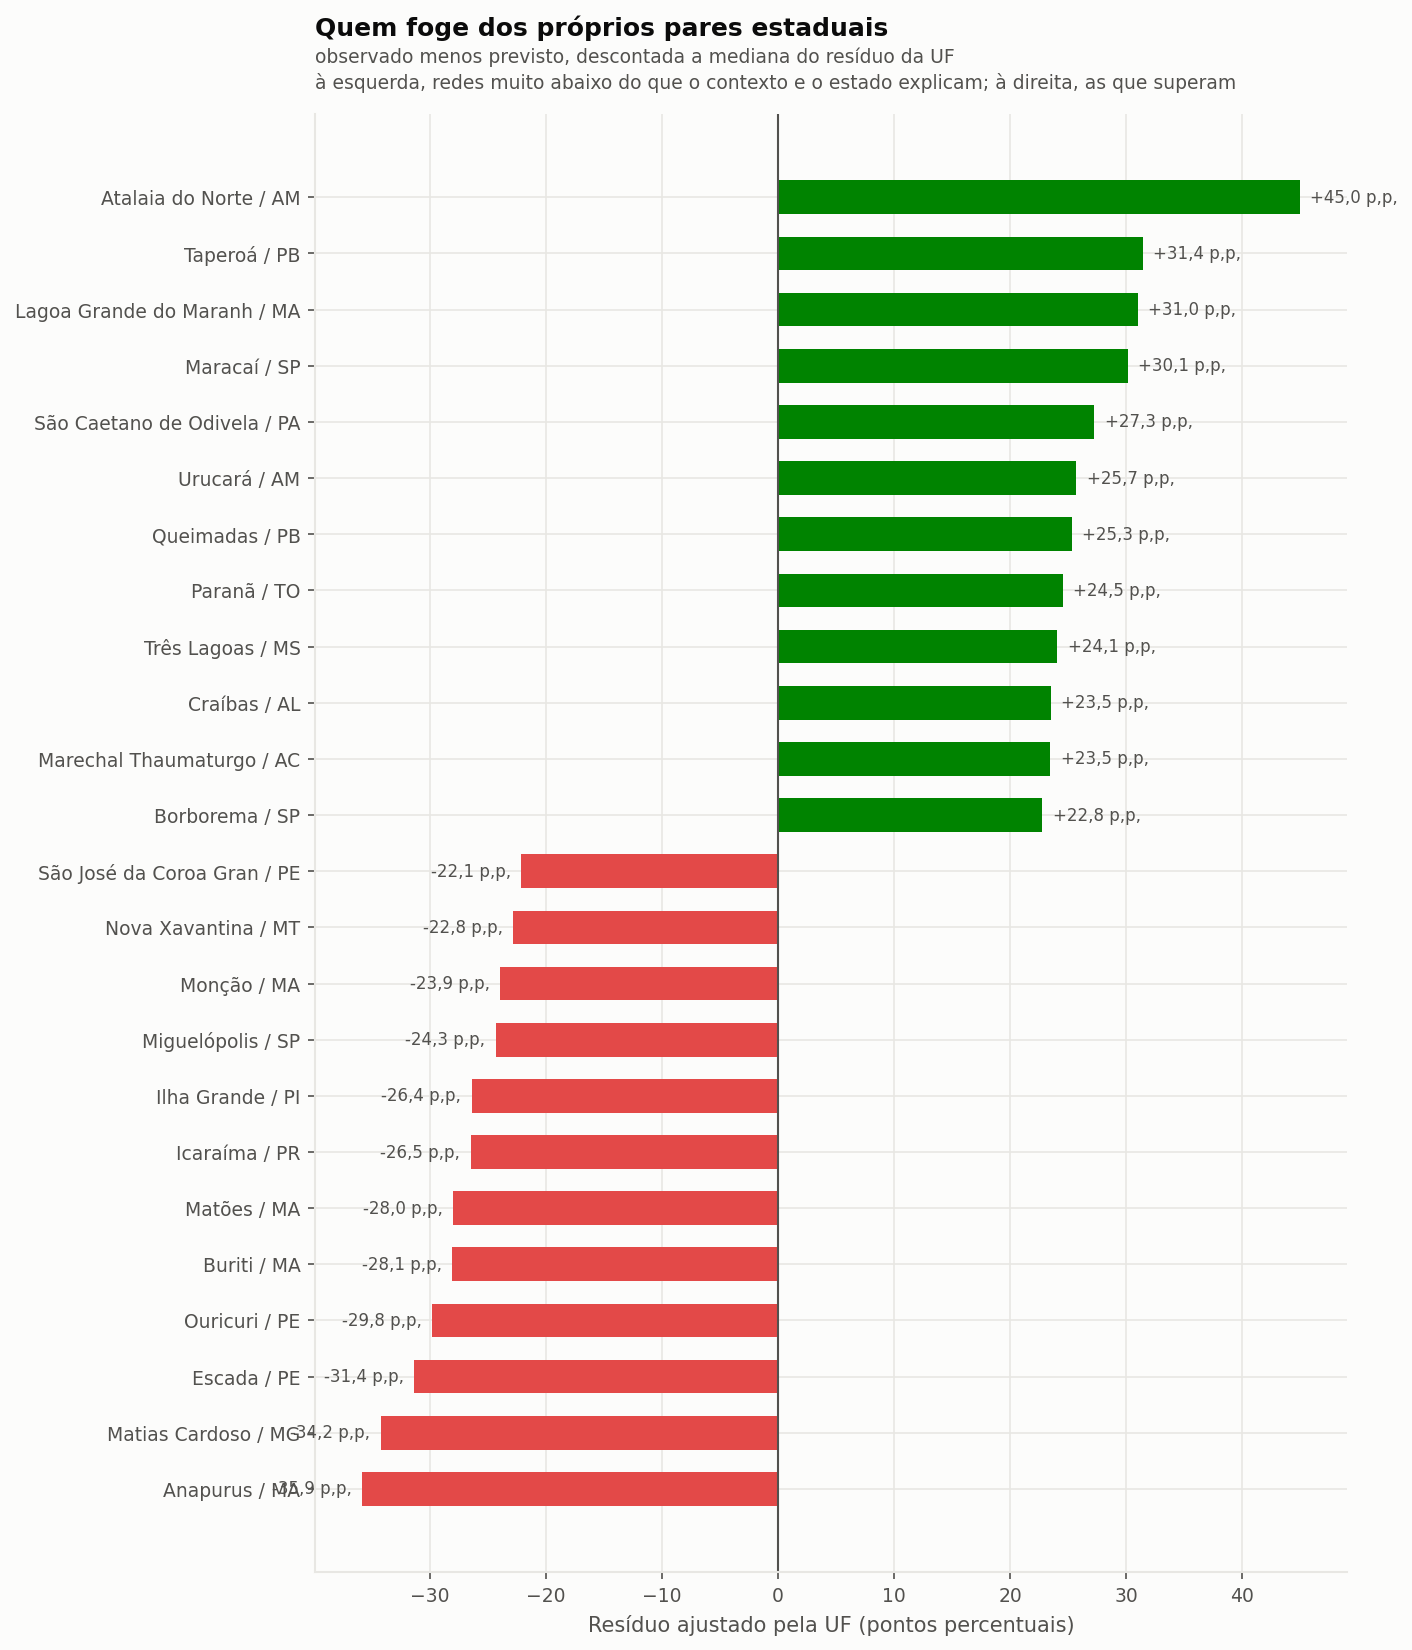
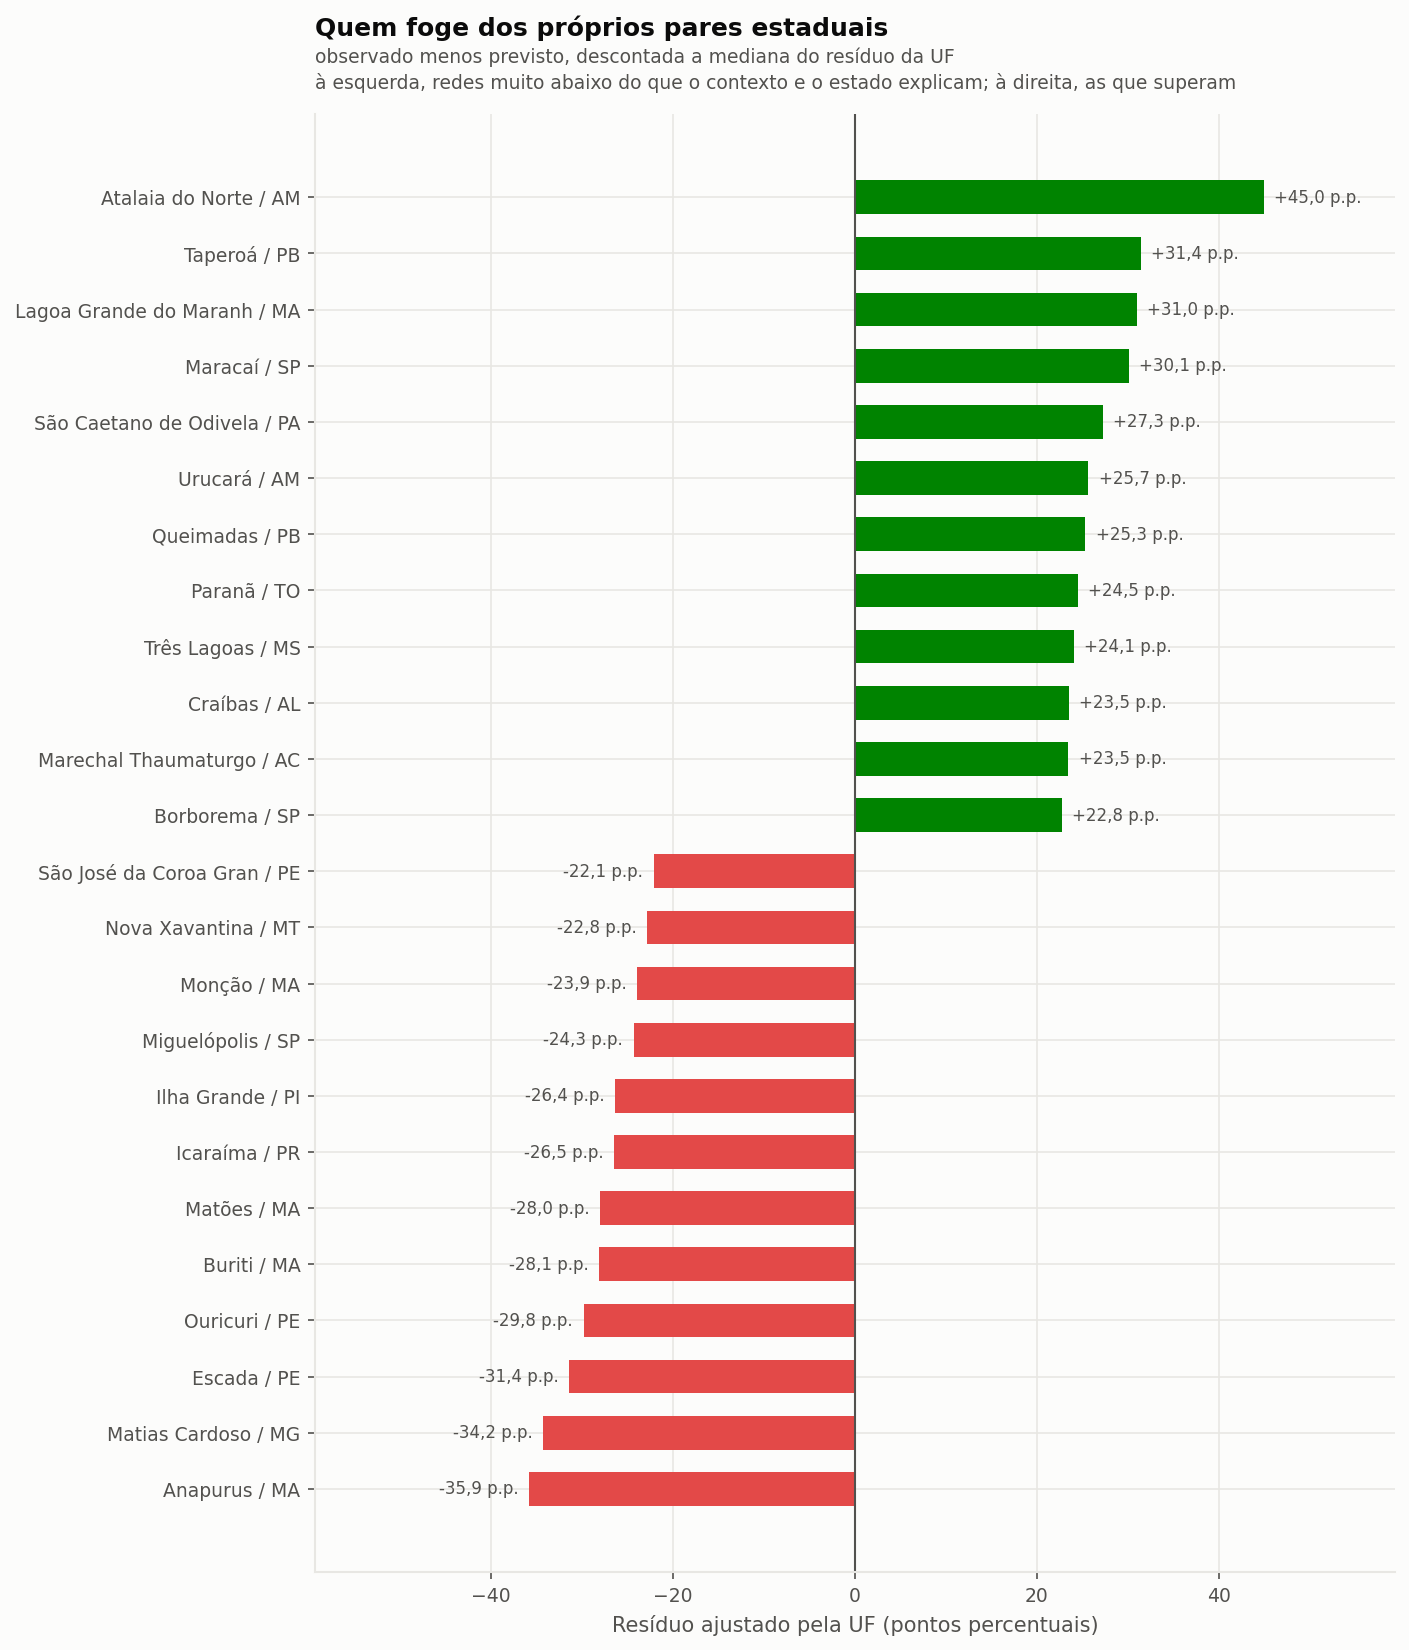
fix: helper de formatação numérica — o bug do "p,p," aparecia pela quarta vez
A forma ingênua de formatar no padrão brasileiro — `f"{x:.1f} p.p.".replace(".", ",")`
— também troca os pontos da abreviatura, produzindo "10,6 p,p,". O erro apareceu em
quatro gráficos diferentes, corrigido pontualmente três vezes, até virar função:
`estilo.num()` formata só o número e devolve a string, e a unidade é concatenada
depois.

Também nesta leva:
- `fig_residuos` ganhou folga nos dois extremos do eixo; o rótulo do município de
  maior resíduo negativo invadia o nome no eixo y.
- Figuras afetadas regeneradas: distribuição do alvo, dispersão, decis, calibração
  municipal e resíduos, nos dois desenhos.

19 testes passando.

diff --git a/src/visualization/plots.py b/src/visualization/plots.py
@@ -12,6 +12,7 @@ from sklearn.metrics import precision_recall_curve, roc_curve
 
 from .estilo import (
     CATEGORICA,
+    num,
     SUPERFICIE,
     DIVERGENTE,
     STATUS,
@@ -235,9 +236,9 @@ def fig_calibracao_municipal(ranking: pd.DataFrame, metricas: dict,
     ax.set_ylabel("Taxa municipal observada (%)")
     ax.set_xlim(10, 100)
     ax.set_ylim(0, 100)
-    r = f"{metricas['correlacao']:.3f}".replace(".", ",")
-    mae = f"{metricas['erro_medio_absoluto_pp']:.1f}".replace(".", ",")
-    vies = f"{metricas['vies_pp']:+.1f}".replace(".", ",")
+    r = num(metricas["correlacao"], 3)
+    mae = num(metricas["erro_medio_absoluto_pp"])
+    vies = num(metricas["vies_pp"], sinal=True)
     n = f"{metricas['n_municipios']:,}".replace(",", ".")
     titular(ax, "A previsão agregada por município ordena bem, com margem larga",
             f"r = {r} · erro absoluto médio {mae} p.p. · viés {vies} p.p. · "
@@ -273,11 +274,16 @@ def fig_residuos(ranking: pd.DataFrame, n: int = 12, coluna: str = "residuo_ajus
     fig, ax = plt.subplots(figsize=(9.5, 0.38 * len(dados) + 2))
     ax.barh(rotulos, dados[coluna] * 100, color=cores, height=0.6)
     ax.axvline(0, color=TINTA_SECUNDARIA, lw=1)
-    for y, r in enumerate(dados[coluna] * 100):
-        ax.annotate(f"{r:+.1f} p.p.".replace(".", ","), (r, y),
+    valores = dados[coluna] * 100
+    for y, r in enumerate(valores):
+        # Só a parte numérica leva vírgula decimal — "p.p." é abreviatura, não número.
+        ax.annotate(f"{num(r, sinal=True)} p.p.", (r, y),
                     xytext=(5 if r > 0 else -5, 0), textcoords="offset points",
                     va="center", ha="left" if r > 0 else "right",
                     fontsize=8, color=TINTA_SECUNDARIA)
+    # Folga nas duas pontas para o rótulo mais longo não invadir o eixo.
+    limite = abs(valores).max()
+    ax.set_xlim(-limite * 1.32, limite * 1.32)
     ax.set_xlabel("Resíduo ajustado pela UF (pontos percentuais)")
     titular(ax, "Quem foge dos próprios pares estaduais",
             "observado menos previsto, descontada a mediana do resíduo da UF\n"

diff --git a/src/visualization/eda.py b/src/visualization/eda.py
@@ -27,6 +27,7 @@ from ..common.log import get_logger
 from ..preprocessing.features import ALVO, bloco_de
 from .estilo import (
     CATEGORICA,
+    num,
     SUPERFICIE,
     GRADE,
     SEQUENCIAL,
@@ -99,8 +100,7 @@ def fig_distribuicao_alvo(df: pd.DataFrame) -> str:
                   color=CATEGORICA[2], height=0.52)
     rotular_barras(eixos[2], "{:.1f}%", horizontal=True)
     amplitude = por_regiao.max() - por_regiao.min()
-    titular(eixos[2], "Por região",
-            f"{amplitude:.1f} p.p. separam Norte e Sul".replace(".", ","))
+    titular(eixos[2], "Por região", f"{num(amplitude)} p.p. separam Norte e Sul")
     eixos[2].set_xlim(0, 100)
 
     for ax in eixos:
@@ -161,7 +161,7 @@ def fig_dispersao_unidades(df: pd.DataFrame) -> str:
     # Coordenada mista: x nos dados, y na fração do eixo — assim o rótulo fica
     # ancorado à linha sem depender do número de faixas desenhadas.
     from matplotlib.transforms import blended_transform_factory
-    ax.text(media, 1.005, f"média nacional {media:.1f}%".replace(".", ","),
+    ax.text(media, 1.005, f"média nacional {num(media)}%",
             transform=blended_transform_factory(ax.transData, ax.transAxes),
             fontsize=8.5, color=TINTA_SECUNDARIA, ha="center", va="bottom")
     ax.set_xlabel("Taxa de alfabetização da unidade (%)")
@@ -303,9 +303,8 @@ def fig_decis(df: pd.DataFrame, features: list[str]) -> str:
         ax.plot(perfil.index + 1, perfil.values, marker="o", color=cor)
         ax.set_xlabel("Decil")
         ax.set_xticks(range(1, 11, 3))
-        amplitude = f"{perfil.max() - perfil.min():.1f}".replace(".", ",")
         titular(ax, col.replace("_", " "),
-                f"{bloco_de(col)} · amplitude {amplitude} p.p.")
+                f"{bloco_de(col)} · amplitude {num(perfil.max() - perfil.min())} p.p.")
         limpar_eixos(ax)
     eixos[0].set_ylabel("% alfabetizados")
     fig.tight_layout()

diff --git a/src/visualization/estilo.py b/src/visualization/estilo.py
@@ -93,6 +93,17 @@ def aplicar_estilo() -> None:
     })
 
 
+def num(valor: float, casas: int = 1, sinal: bool = False) -> str:
+    """Formata um número no padrão brasileiro (vírgula decimal).
+
+    Existe porque a forma ingênua — `f"{x:.1f} p.p.".replace(".", ",")` — também
+    troca os pontos da abreviatura, produzindo "10,6 p,p,". O erro apareceu três
+    vezes em gráficos diferentes antes de virar esta função.
+    """
+    formato = f"{{:+.{casas}f}}" if sinal else f"{{:.{casas}f}}"
+    return formato.format(valor).replace(".", ",")
+
+
 def limpar_eixos(ax, manter=("left", "bottom")) -> None:
     """Remove as bordas supérfluas: a grade já dá a referência de leitura."""
     for lado, spine in ax.spines.items():
